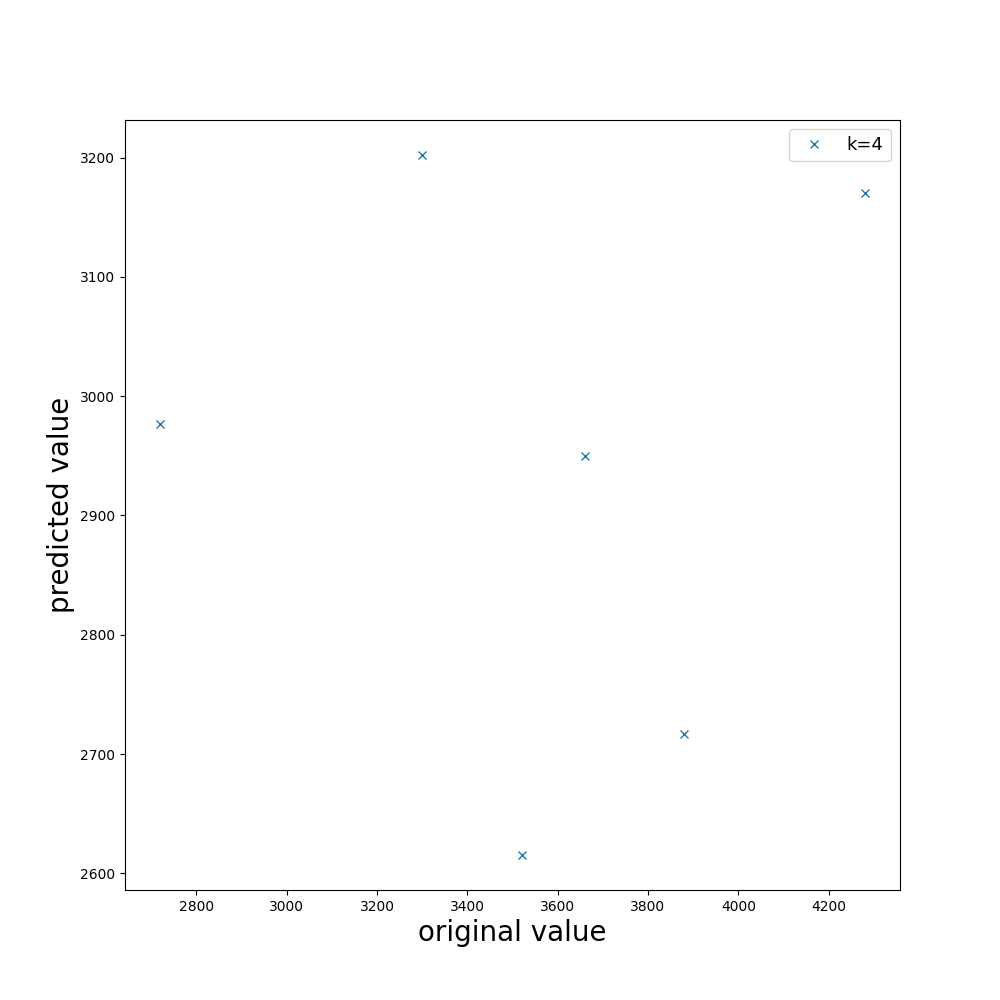
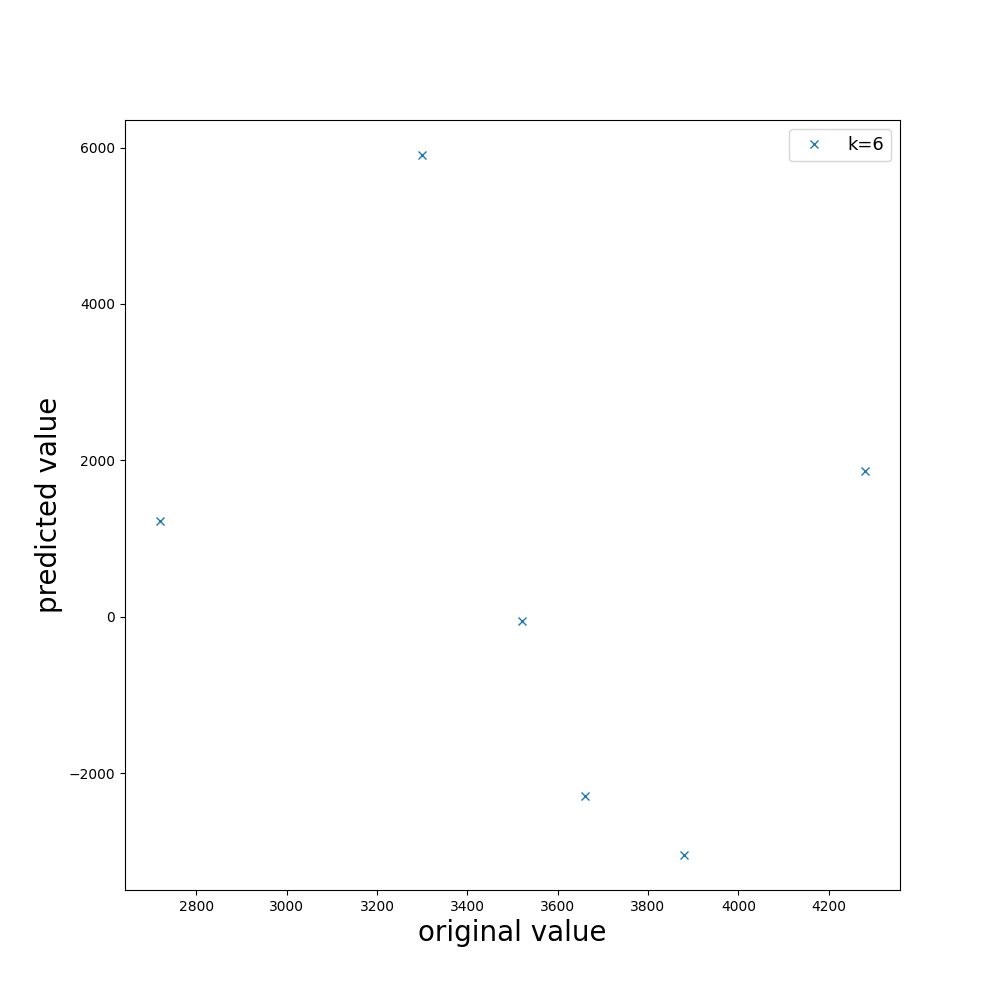
used moving average to get the trend + trained NN with detrended data + model.evaluate

diff --git a/model.py b/model.py
@@ -1,5 +1,6 @@
 import os
 import sys
+import statistics
 import numpy as np
 from numpy import array
 import pandas as pd
@@ -9,42 +10,47 @@ import tensorflow as tf
 import matplotlib.pyplot as plt
 from statsmodels.tsa.stattools import adfuller
 from sklearn.model_selection import train_test_split
-from statsmodels.tsa.seasonal import seasonal_decompose
 
 
 def load_data(filename):
     # read data from csv file
     data = pd.read_csv(filename)
-    
     df = pd.DataFrame(data)
+
     # select rows and columns
     df = df[:475]
     df.drop(df.columns[74:], axis=1, inplace=True)
     df.drop(df.columns[[0, 1, 2, 3, 4, 5]], axis=1, inplace=True)
  
-    #statistical test to check if our time series are non-stationary
-    """X = df.values
-    result = adfuller(X[0])
+    X = np.array(df.values)
+
+    """result = adfuller(X[0])
     print('ADF Statistic: %f' % result[0])
     print('p-value: %f' % result[1])
     print('Critical Values:')
     for key, value in result[4].items():
         print('\t%s: %.3f' % (key, value))"""
-    X = df.values
-    diff = []
-    for i in range(1, len(X)):
-        value = X[i] - X[i - 1]
-        diff.append(value)
+    return X
+
+def detrending (X):
+    #statistical test to check if our time series are non-stationary
+    all = []
+    for serie in X:
+        avg = []
+        avg.append(np.mean([serie[0], serie[1], serie[2]]))
+        for i in range(1, len(serie)-1):
+            value = np.mean([serie[i-1], serie[i], serie[i+1]])
+            avg.append(value)
+        value = avg.pop()
+        avg.append(value)
+        avg.append(value)
+        all.append(avg)
     
+    trend = np.array(all)
 
-    #convert dataFrame into a numpy array
-    detrended = np.array(diff)
-    """result = seasonal_decompose(np.transpose(X[50]), model='additive', freq = 1)
-
-    result.plot()
-    plt.show()"""
-
-    return detrended
+    detrended = X - trend
+    
+    return detrended, trend
 
 
 # split a univariate sequence into samples
@@ -63,7 +69,7 @@ def plot(pred, yhat):
 
     #print(pred[0])
     #print(yhat[0])
-    ax.plot(list(pred[0]),yhat[0],'x', label="k=4")
+    ax.plot(list(pred[0]),yhat[0],'x', label="k=6")
 
     ax.set_xlabel("original value",fontsize=20)
     ax.set_ylabel("predicted value",fontsize=20)
@@ -74,19 +80,19 @@ def plot(pred, yhat):
     plt.show()
 
 def main(argv):
-    #read_file = pd.read_excel (r'/Users/giselaalbors/desktop/M3C.xls', sheet_name='M3Month')
-    #read_file.to_csv (r'/Users/giselaalbors/desktop/new.csv', index = None, header=True)
-
     # define input sequence
     raw_seq = load_data("new.csv")
 
     # split between training and testing data
     test_dataset, training_dataset = train_test_split(raw_seq, train_size=0.8, test_size=0.2, random_state = 3)
 
-    data,pred=split_sequence(training_dataset)
+    #find trend and detrended version of the training data set
+    detrended, trend = detrending(training_dataset)
 
-    data=np.array(data)
-    pred=np.array(pred)
+    #split timeseries between input data and values to predict
+    data, pred = split_sequence(training_dataset) 
+    data_detrended, pred_detrended = split_sequence(detrended) 
+    data_trend, pred_trend = split_sequence(trend) 
 
     # define model
     model = Sequential()
@@ -99,16 +105,37 @@ def main(argv):
     model.add(Dense(6))
     model.compile(optimizer='adam', loss='mse',metrics=['accuracy'])
 
-    # fit model
-    model.fit(data, pred, batch_size=14 , epochs=30, verbose=1)
+    # fit model detrended data
+    model.fit(np.array(data_detrended), np.array(pred_detrended), batch_size=14 , epochs=30, verbose=1)
 
-    # demonstrate prediction
-    x_input = np.array(data[0])
-    x_input = x_input.reshape((1, 62))
-    yhat = model.predict(x_input, verbose=0)
-    print(yhat)
+    """# demonstrate prediction detrended data
+    x_input_detrended = np.array(data_detrended[0])
+    x_input_detrended = x_input_detrended.reshape((1, 62))
+    yhat_detrended = model.predict(x_input_detrended, verbose=0)
+    print(yhat_detrended)
 
-    plot(pred, yhat)
+    # demonstrate prediction trend data
+    x_input_trend = np.array(data_trend[0])
+    x_input_trend = x_input_trend.reshape((1, 62))
+    yhat_trend = model.predict(x_input_trend, verbose=0)
+    print(yhat_trend)
+
+    plot(pred, yhat_detrended + yhat_trend)"""
+
+    #evaluate the model with the training data
+    results = model.evaluate(np.array(data_detrended), np.array(pred_detrended))
+    print("test loss, test acc:", results)
+
+    #find trend and detrended version of the testing data set
+    test_detrended, test_trend = detrending(test_dataset)
+
+    #split timeseries between input data and values to predict
+    test_data, test_pred = split_sequence(test_detrended) 
+
+    #evaluate the model with the testing data
+    """results_test = model.evaluate(np.array(test_data), np.array(test_pred))
+    print("test loss, test acc:", results_test)"""
+
 
 if __name__ == "__main__":
     main(sys.argv)
